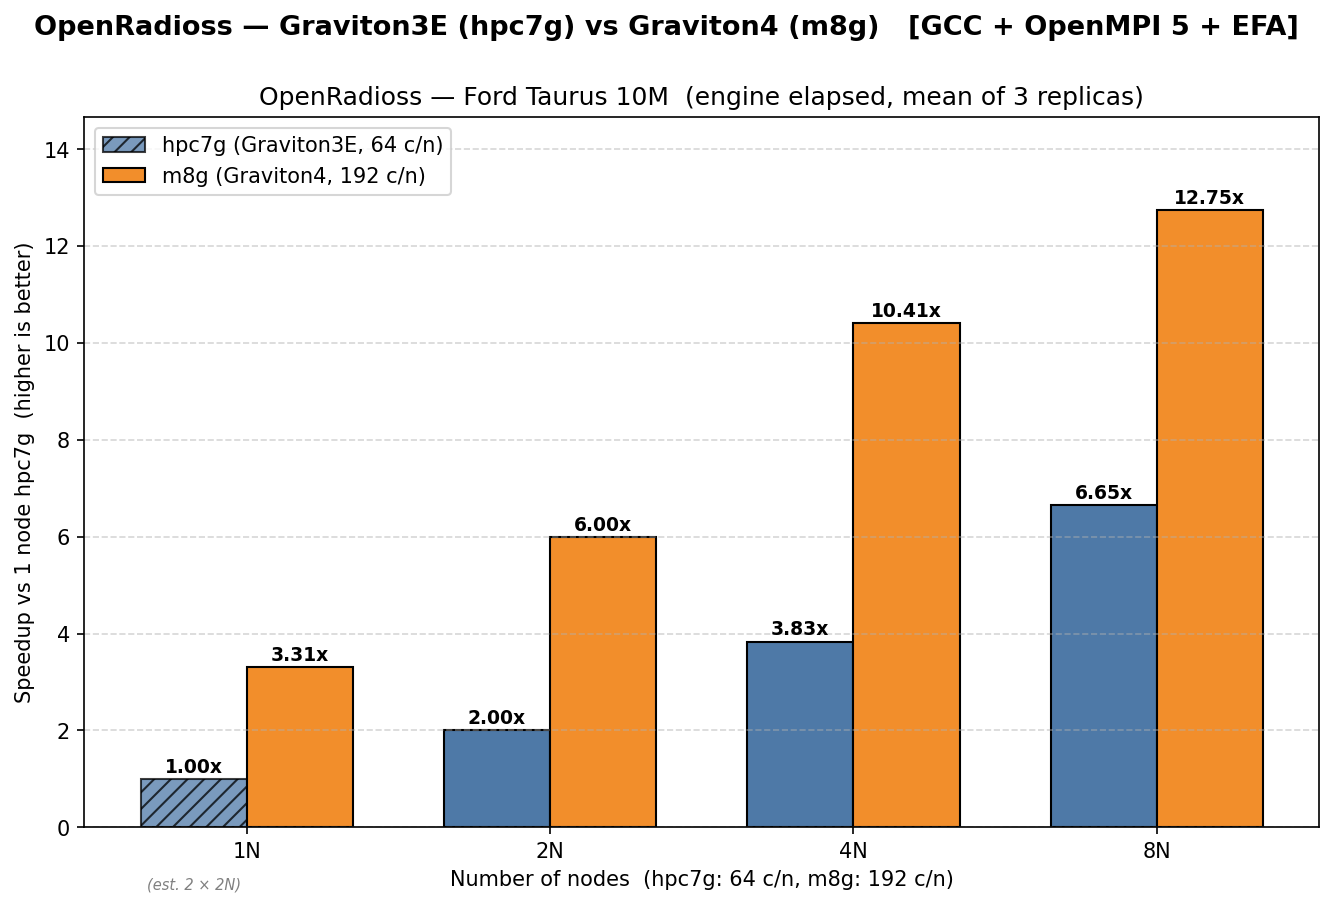
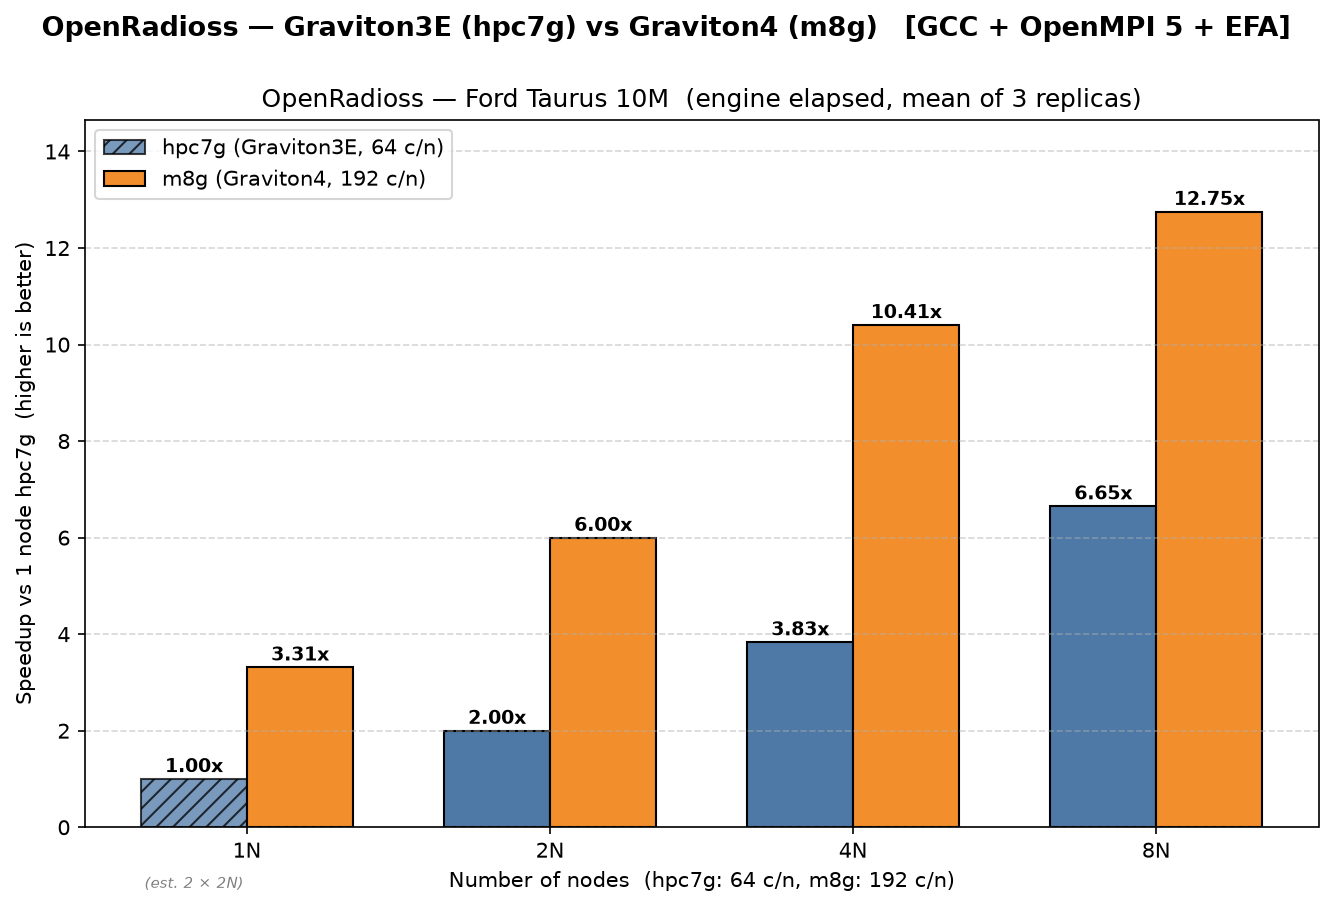
docs(OpenRadioss): the chart generator embeds relative values only
generate_charts.py held the engine times of the Taurus 10M runs and divided
them into the speedups it plots. It now holds the speedups themselves:
against 1 node hpc7a (= 1.00) for the x86 chart, and against the estimated
1 node hpc7g (= 1.00) for the Arm chart, to six decimals, the fewest with
which both charts come out pixel for pixel as from the times. The summary it
prints gives the speedups only.

Its notes on the estimated 1-node hpc7g point say that the point is not
measured, and the 8-node m8g note gives its replica count only. The
generator selects matplotlib's Agg backend, as the WRF chart generators do.

The two PNGs are rewritten with matplotlib 3.11.2 (numpy 2.4.6). The
committed ones were written by matplotlib 3.10.8 on another host, and no
version here reproduces them byte for byte, the unchanged generator
included. With 3.11.2, the unchanged generator and this one write the same
bytes, which the generator now rewrites byte for byte. The bars, labels,
titles and legends are those of the previous charts.

diff --git a/Doc/img/OpenRadioss/generate_charts.py b/Doc/img/OpenRadioss/generate_charts.py
@@ -5,8 +5,8 @@ Generate the OpenRadioss performance charts:
 1. x86 chart: hpc8a (AMD EPYC Zen5) vs hpc7a (AMD EPYC Zen4)
    Speedup normalised to 1 node hpc7a.
 2. Arm chart: hpc7g (Graviton3E / Neoverse V1) vs m8g (Graviton4 / Neoverse V2)
-   Speedup normalised to 1 node hpc7g (estimated as 2 x 2N since 1N does not
-   fit in a 4h SLURM wall-time limit).
+   Speedup normalised to 1 node hpc7g, which is not measured: it is estimated
+   as 2 x the 2N time.
 
 Benchmark: Ford Taurus (10M cells, SIM_TIME=0.01 = 50,253 cycles)
 Metric: Radioss engine ELAPSED TIME, mean of 3 replicas.
@@ -15,11 +15,17 @@ Usage:
     python3 generate_charts.py
 """
 
+import matplotlib
+matplotlib.use("Agg")  # write the PNGs without a display
 import matplotlib.pyplot as plt
 import numpy as np
 
 # ---------------------------------------------------------------------------
-# Measured data — OpenRadioss Taurus 10M, SIM_TIME=0.01, engine elapsed (s)
+# Measured data — OpenRadioss Taurus 10M, SIM_TIME=0.01: speedup on the
+# Radioss engine ELAPSED TIME (higher is faster), the values the README's two
+# tables give to two decimals. Only relative values are embedded here. Six
+# decimals are the fewest with which the charts come out pixel for pixel as
+# when they were computed from the runs' times.
 # ---------------------------------------------------------------------------
 # All runs: 3 replicas each, mean reported. CV = coefficient of variation.
 # x86: GCC 11.5 + OpenMPI 4.1.7 + EFA, -march=x86-64-v4 -mtune=znver4
@@ -31,32 +37,19 @@ import numpy as np
 # 1.25x as fast (3 runs each) and hpc8a 1.30x (one run each), 63% and 65% of
 # linear scaling, so the chart caps at 4N to focus on the useful scaling range.
 nodes_x86 = np.array([1, 2, 4])
-t_hpc8a = np.array([2956.2, 1744.1, 1029.7])  # AMD Zen5, AVX-512
-t_hpc7a = np.array([4263.7, 2436.6, 1420.2])  # AMD Zen4, AVX-512
+# Speedup against 1 node hpc7a (= 1.00).
+su_hpc8a = np.array([1.442291, 2.444642, 4.140721])  # AMD Zen5, AVX-512
+su_hpc7a = np.array([1.000000, 1.749856, 3.002183])  # AMD Zen4, AVX-512
 
 # Arm —————————————————————————————————————————————————————————————————————
-# hpc7g 1N does not fit in 4h SLURM limit; estimated as 2 x 2N (same
-# convention as OpenFOAM / WRF Arm charts).
+# Speedup against 1 node hpc7g (= 1.00). That reference is not measured: it is
+# estimated as 2 x the 2N time (same convention as the OpenFOAM / WRF Arm
+# charts), so the 2N hpc7g point is 2.00 by construction.
 nodes_arm = np.array([1, 2, 4, 8])
-t_hpc7g_2n_4n_8n = np.array([6700.9, 3495.6, 2015.1])
-t_hpc7g_1n_est = 2.0 * t_hpc7g_2n_4n_8n[0]  # 13401.8s
-t_hpc7g = np.concatenate(([t_hpc7g_1n_est], t_hpc7g_2n_4n_8n))
+su_hpc7g = np.array([1.000000, 2.000000, 3.833905, 6.650687])
 
-# m8g 8N: only 1 replica (others blocked by AWS m8g.48xlarge capacity
-# exhaustion). Retained because its CV with surrounding node counts is
-# 0.1–0.4% so the single data point is representative.
-t_m8g = np.array([4046.5, 2234.8, 1287.9, 1051.1])
-
-# ---------------------------------------------------------------------------
-# Speedups
-# ---------------------------------------------------------------------------
-baseline_x86 = t_hpc7a[0]       # 1N hpc7a
-baseline_arm = t_hpc7g[0]       # estimated 1N hpc7g
-
-su_hpc8a = baseline_x86 / t_hpc8a
-su_hpc7a = baseline_x86 / t_hpc7a
-su_hpc7g = baseline_arm / t_hpc7g
-su_m8g   = baseline_arm / t_m8g
+# m8g 8N: 1 replica.
+su_m8g = np.array([3.311949, 5.996868, 10.405932, 12.750262])
 
 # ---------------------------------------------------------------------------
 # Styling — match WRF/OpenFoam Arm chart style
@@ -153,15 +146,13 @@ print("Wrote OpenRadioss-Taurus10M-Graviton3VsGraviton4.png")
 # ---------------------------------------------------------------------------
 # Summary tables
 # ---------------------------------------------------------------------------
-print("\n=== x86 — Taurus 10M (SIM_TIME=0.01), engine elapsed (s) ===")
-print(f"{'Nodes':<6}{'hpc7a':>10}{'hpc8a':>10}{'hpc7a spd':>12}{'hpc8a spd':>12}")
+print("\n=== x86 — Taurus 10M (SIM_TIME=0.01), speedup vs 1N hpc7a ===")
+print(f"{'Nodes':<6}{'hpc7a spd':>12}{'hpc8a spd':>12}")
 for i, n in enumerate(nodes_x86):
-    print(f"{n}N    {t_hpc7a[i]:>10.1f}{t_hpc8a[i]:>10.1f}"
-          f"{su_hpc7a[i]:>11.2f}x{su_hpc8a[i]:>11.2f}x")
+    print(f"{n}N    {su_hpc7a[i]:>11.2f}x{su_hpc8a[i]:>11.2f}x")
 
-print("\n=== Arm — Taurus 10M (SIM_TIME=0.01), engine elapsed (s) ===")
-print(f"{'Nodes':<10}{'hpc7g':>12}{'m8g':>10}{'hpc7g spd':>12}{'m8g spd':>10}")
+print("\n=== Arm — Taurus 10M (SIM_TIME=0.01), speedup vs 1N hpc7g (est) ===")
+print(f"{'Nodes':<10}{'hpc7g spd':>12}{'m8g spd':>10}")
 for i, n in enumerate(nodes_arm):
     tag = " (est)" if n == 1 else ""
-    print(f"{n}N{tag:<7}{t_hpc7g[i]:>12.1f}{t_m8g[i]:>10.1f}"
-          f"{su_hpc7g[i]:>11.2f}x{su_m8g[i]:>9.2f}x")
+    print(f"{n}N{tag:<7}{su_hpc7g[i]:>11.2f}x{su_m8g[i]:>9.2f}x")
